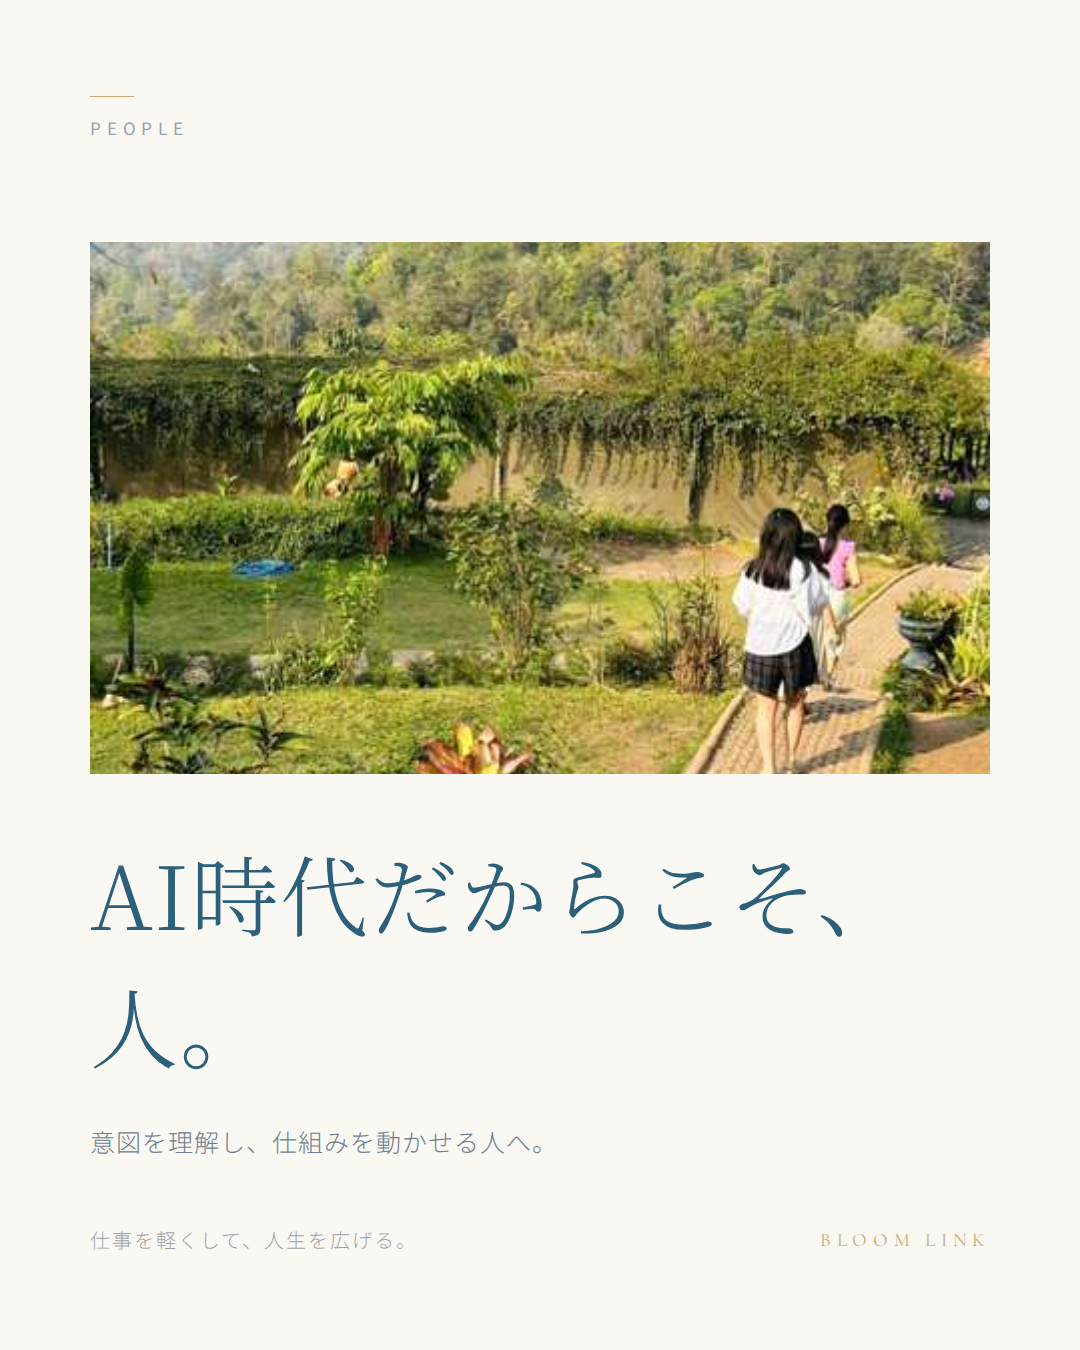
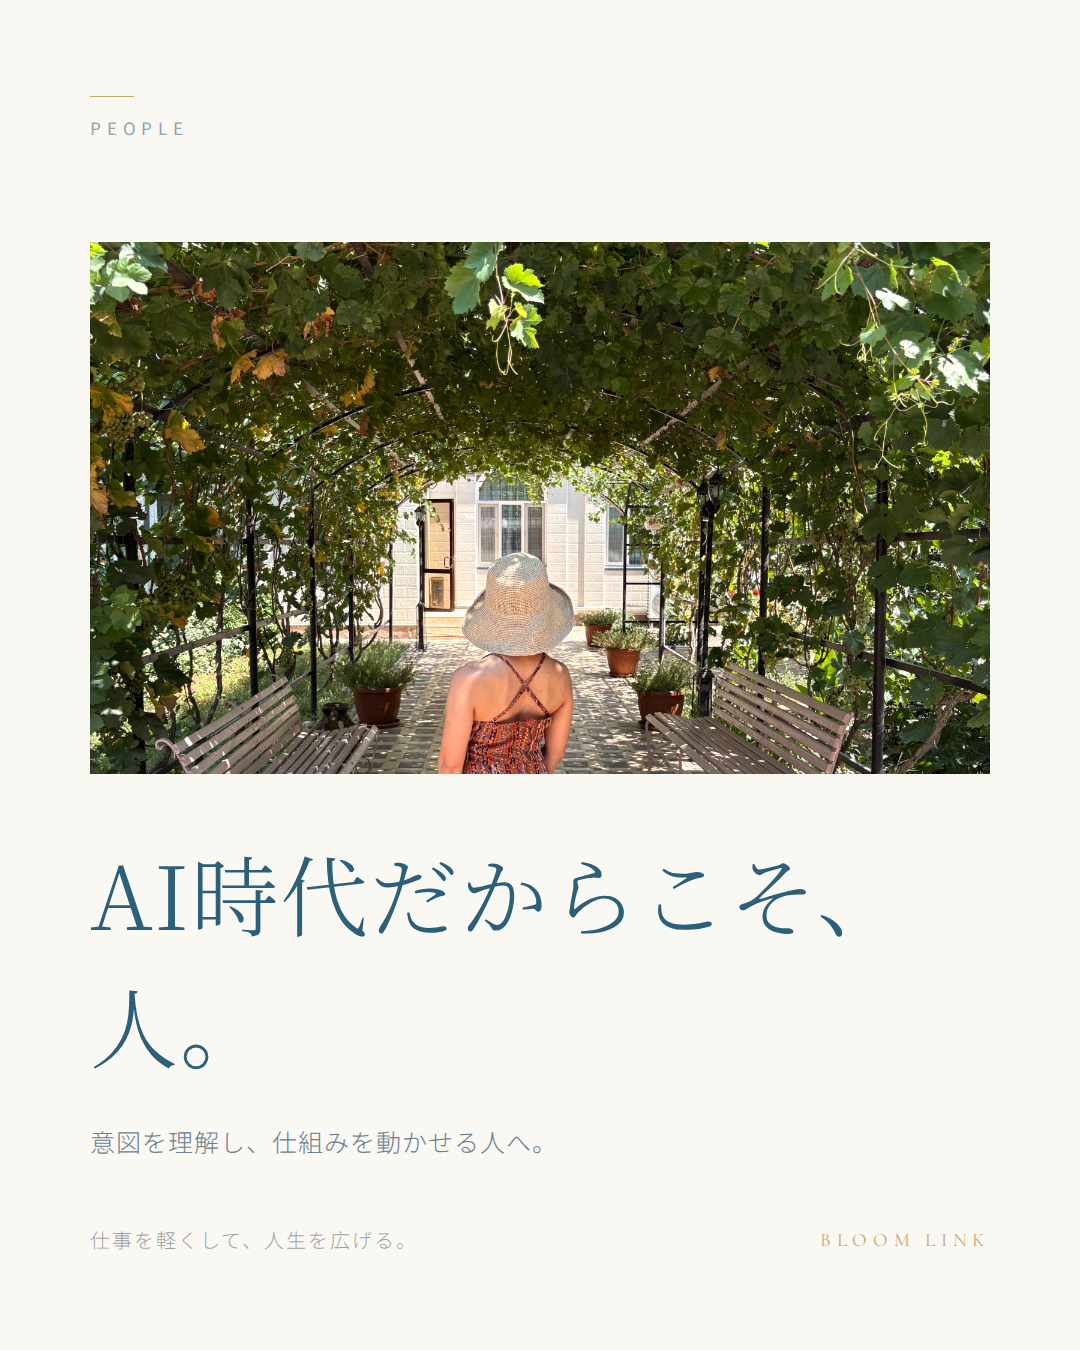
06の写真を pergola.jpg に差し替え、本文をRieの原稿から書き直し
06はチェンマイの写真を仮置きしていたが、いただいたぶどう棚の写真に
差し替えた。ご本人が主役で明るく、「任せた先にある余裕」という
この回のテーマに合う。縦位置なので focus で枠に収まる位置へ寄せた。

本文はいただいた原稿の言葉をそのまま核にした。
「人に任せるのも、AIに任せるのも、実は似ているのかもしれない。」
から入り、「上手に任せる」で閉じる。

表紙のコピーは変えていない。文字を全部載せる型は、プロフィールに
並ぶ大きさ（幅124px）では文字が読めず写真も隠れてしまうため、
表紙は一言に絞る型を維持し、いただいた文章は本文へ回している。

Claude-Session: https://claude.ai/code/session_018TyEhHEDE4a9HFdLJk5hvJ

diff --git a/src/instagram9/posts.js b/src/instagram9/posts.js
@@ -239,17 +239,28 @@ ${SERIES_TAGLINE}`,
     no: '06',
     category: 'PEOPLE',
     variant: 'frame',
-    photos: ['chiangmai.jpg'],
+    photos: ['pergola.jpg'],
+    // 縦位置の写真を横長の額装に入れるので、本人が枠に収まる位置へ寄せる
+    focus: '50% 35%',
     headline: ['AI時代だからこそ、', '人。'],
     sub: '意図を理解し、仕組みを動かせる人へ。',
     headlineSize: 88,
     role: '人とチーム。AIですべてを置き換える思想ではない。',
-    photoNote: 'チーム・現地の人との交流など「人」が写っている写真が理想。',
+    photoNote: 'ぶどう棚の小径。任せた先にある「余裕」の絵として使っている。',
     caption: `06｜AI時代だからこそ、人。
 
-AIですべてを置き換えよう、とは考えていません。
+人に任せるのも、AIに任せるのも、
+実は似ているのかもしれない。
 
-むしろAIが進むほど、
+私自身、
+「自分でやった方が早い」
+「説明するのが面倒」で
+つい自分でやっちゃうタイプでした。
+
+でも、信頼して任せられる人がいると、
+時間だけじゃなく、気持ちの余裕まで全然違う。
+
+だからこそ、AIが進むほど
 人にしか残らない仕事がはっきりしてきました。
 
 ・経営者の意図を理解する
@@ -264,11 +275,10 @@ AIですべてを置き換えよう、とは考えていません。
 私が育てたいのは後者です。
 指示を待つ人ではなく、経営者の隣で考えられるパートナー。
 
-主婦や副業から始めた女性たちとチームをつくってきて、
-そこは何度も証明されてきました。
+「自分でできる」を増やすだけじゃなく、
+「上手に任せる」も身につけたい。
 
-技術が進むほど、人の価値は上がる。
-本気でそう思っています。
+その分、本当に使いたいことに、時間を使えるように。
 
 —
 ${SERIES_TAGLINE}`,
